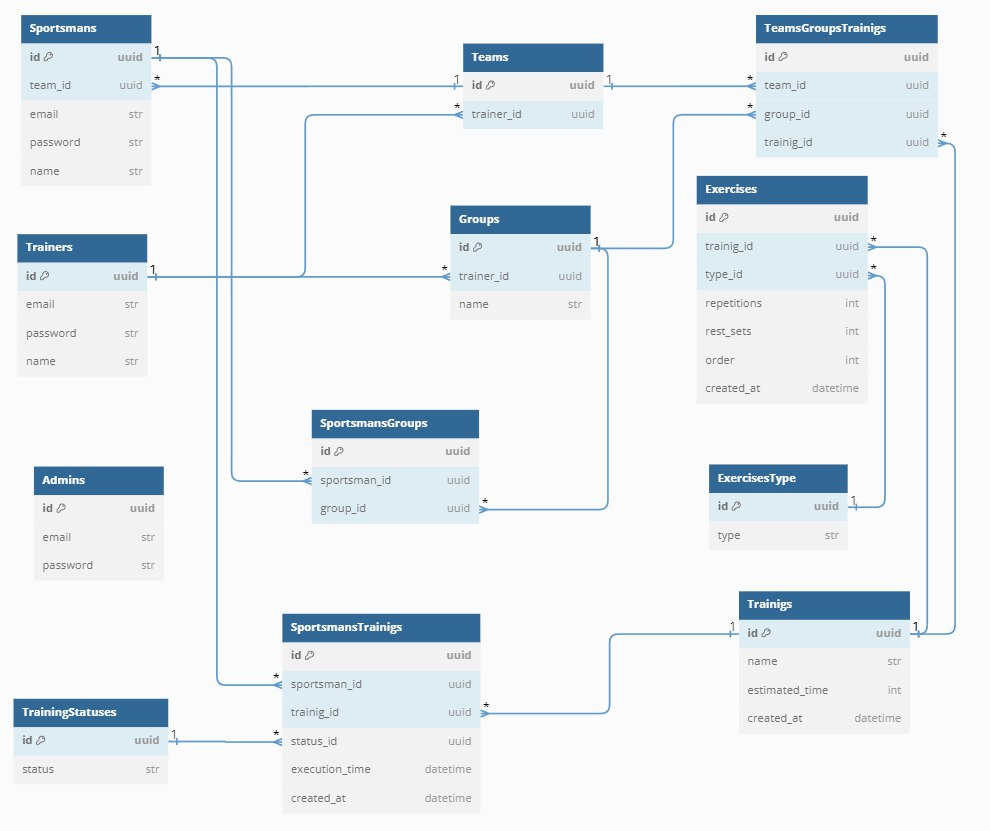
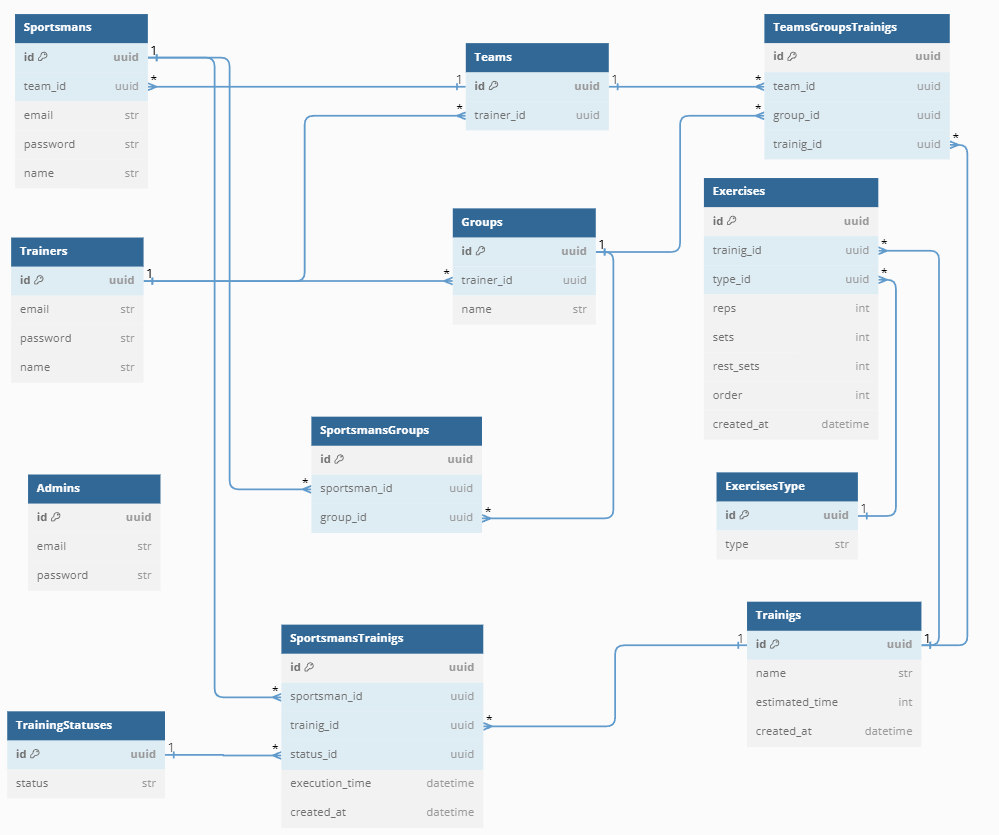
.

diff --git a/migrations/versions/ff426c6590c6_create_tables.py b/migrations/versions/ff426c6590c6_create_tables.py
@@ -1,8 +1,8 @@
 """create_tables
 
-Revision ID: b15ef23cd1d9
+Revision ID: ff426c6590c6
 Revises:
-Create Date: 2023-10-19 15:47:02.327973
+Create Date: 2023-10-24 14:53:32.769683
 
 """
 
@@ -12,7 +12,7 @@ import sqlalchemy as sa
 from alembic import op
 
 # revision identifiers, used by Alembic.
-revision: str = "b15ef23cd1d9"
+revision: str = "ff426c6590c6"
 down_revision: Union[str, None] = None
 branch_labels: Union[str, Sequence[str], None] = None
 depends_on: Union[str, Sequence[str], None] = None
@@ -24,6 +24,14 @@ def upgrade() -> None:
         "admins",
         sa.Column("email", sa.String(), nullable=False),
         sa.Column("hashed_password", sa.String(), nullable=False),
+        sa.Column(
+            "id", sa.UUID(), server_default=sa.text("gen_random_uuid()"), nullable=False
+        ),
+        sa.PrimaryKeyConstraint("id"),
+    )
+    op.create_table(
+        "exercises_types",
+        sa.Column("type", sa.Integer(), nullable=False),
         sa.Column(
             "id", sa.UUID(), server_default=sa.text("gen_random_uuid()"), nullable=False
         ),
@@ -53,6 +61,46 @@ def upgrade() -> None:
         sa.Column("name", sa.String(), nullable=False),
         sa.Column(
             "id", sa.UUID(), server_default=sa.text("gen_random_uuid()"), nullable=False
+        ),
+        sa.PrimaryKeyConstraint("id"),
+    )
+    op.create_table(
+        "trainigs",
+        sa.Column("name", sa.String(), nullable=False),
+        sa.Column("estimated_time", sa.Integer(), nullable=False),
+        sa.Column(
+            "created_at", sa.DateTime(), server_default=sa.text("now()"), nullable=False
+        ),
+        sa.Column(
+            "id", sa.UUID(), server_default=sa.text("gen_random_uuid()"), nullable=False
+        ),
+        sa.PrimaryKeyConstraint("id"),
+    )
+    op.create_table(
+        "trainigs_statuses",
+        sa.Column("status", sa.Integer(), nullable=False),
+        sa.Column(
+            "id", sa.UUID(), server_default=sa.text("gen_random_uuid()"), nullable=False
+        ),
+        sa.PrimaryKeyConstraint("id"),
+    )
+    op.create_table(
+        "exercises",
+        sa.Column("trainig_id", sa.UUID(), nullable=False),
+        sa.Column("type_id", sa.UUID(), nullable=False),
+        sa.Column("reps", sa.Integer(), nullable=True),
+        sa.Column("sets", sa.Integer(), nullable=True),
+        sa.Column("rest_sets", sa.Integer(), nullable=True),
+        sa.Column("order", sa.Integer(), nullable=False),
+        sa.Column(
+            "created_at", sa.DateTime(), server_default=sa.text("now()"), nullable=False
+        ),
+        sa.Column(
+            "id", sa.UUID(), server_default=sa.text("gen_random_uuid()"), nullable=False
+        ),
+        sa.ForeignKeyConstraint(["trainig_id"], ["trainigs.id"], ondelete="CASCADE"),
+        sa.ForeignKeyConstraint(
+            ["type_id"], ["exercises_types.id"], ondelete="CASCADE"
         ),
         sa.PrimaryKeyConstraint("id"),
     )
@@ -100,16 +148,42 @@ def upgrade() -> None:
         ),
         sa.PrimaryKeyConstraint("id"),
     )
+    op.create_table(
+        "sportsmans_trainigs",
+        sa.Column("sportsman_id", sa.UUID(), nullable=False),
+        sa.Column("trainig_id", sa.UUID(), nullable=False),
+        sa.Column("status_id", sa.UUID(), nullable=False),
+        sa.Column("execution_time", sa.Integer(), nullable=False),
+        sa.Column(
+            "created_at", sa.DateTime(), server_default=sa.text("now()"), nullable=False
+        ),
+        sa.Column(
+            "id", sa.UUID(), server_default=sa.text("gen_random_uuid()"), nullable=False
+        ),
+        sa.ForeignKeyConstraint(
+            ["sportsman_id"], ["sportsmans.id"], ondelete="CASCADE"
+        ),
+        sa.ForeignKeyConstraint(
+            ["status_id"], ["trainigs_statuses.id"], ondelete="CASCADE"
+        ),
+        sa.ForeignKeyConstraint(["trainig_id"], ["trainigs.id"], ondelete="CASCADE"),
+        sa.PrimaryKeyConstraint("id"),
+    )
     # ### end Alembic commands ###
 
 
 def downgrade() -> None:
     # ### commands auto generated by Alembic - please adjust! ###
+    op.drop_table("sportsmans_trainigs")
     op.drop_table("sportsmans_groups")
     op.drop_table("sportsmans")
     op.drop_table("teams")
     op.drop_table("groups")
+    op.drop_table("exercises")
+    op.drop_table("trainigs_statuses")
+    op.drop_table("trainigs")
     op.drop_table("trainers")
     op.drop_table("sessions")
+    op.drop_table("exercises_types")
     op.drop_table("admins")
     # ### end Alembic commands ###

diff --git a/app/consts/exercises_types.py b/app/consts/exercises_types.py
@@ -4,15 +4,17 @@ from enum import IntEnum
 class ExercisesTypesEnum(IntEnum):
     REST = 1
     WARM_UP = 2
-    PUSH_UPS = 3
-    PULL_UPS = 4
-    SQUATS = 5
-    BURPEE = 6
+    HITCH = 3
+    PUSH_UPS = 4
+    PULL_UPS = 5
+    SQUATS = 6
+    BURPEE = 7
 
 
 EXERCISES_TYPES_DESC: dict[ExercisesTypesEnum, str] = {
     ExercisesTypesEnum.REST: "Отдых",
     ExercisesTypesEnum.WARM_UP: "Разминка",
+    ExercisesTypesEnum.HITCH: "Заминка",
     ExercisesTypesEnum.PUSH_UPS: "Отжимания",
     ExercisesTypesEnum.PULL_UPS: "Подтягивания",
     ExercisesTypesEnum.SQUATS: "Приседания",

diff --git a/app/models/exercises.py b/app/models/exercises.py
@@ -24,7 +24,8 @@ class Exercises(Base, UUIDAsIDMixin):
             ondelete="CASCADE",
         )
     )
-    repetitions: Mapped[int | None]
+    reps: Mapped[int | None]
+    sets: Mapped[int | None]
     rest_sets: Mapped[int | None]
     order: Mapped[int]
     created_at: Mapped[datetime] = mapped_column(server_default=func.now())
